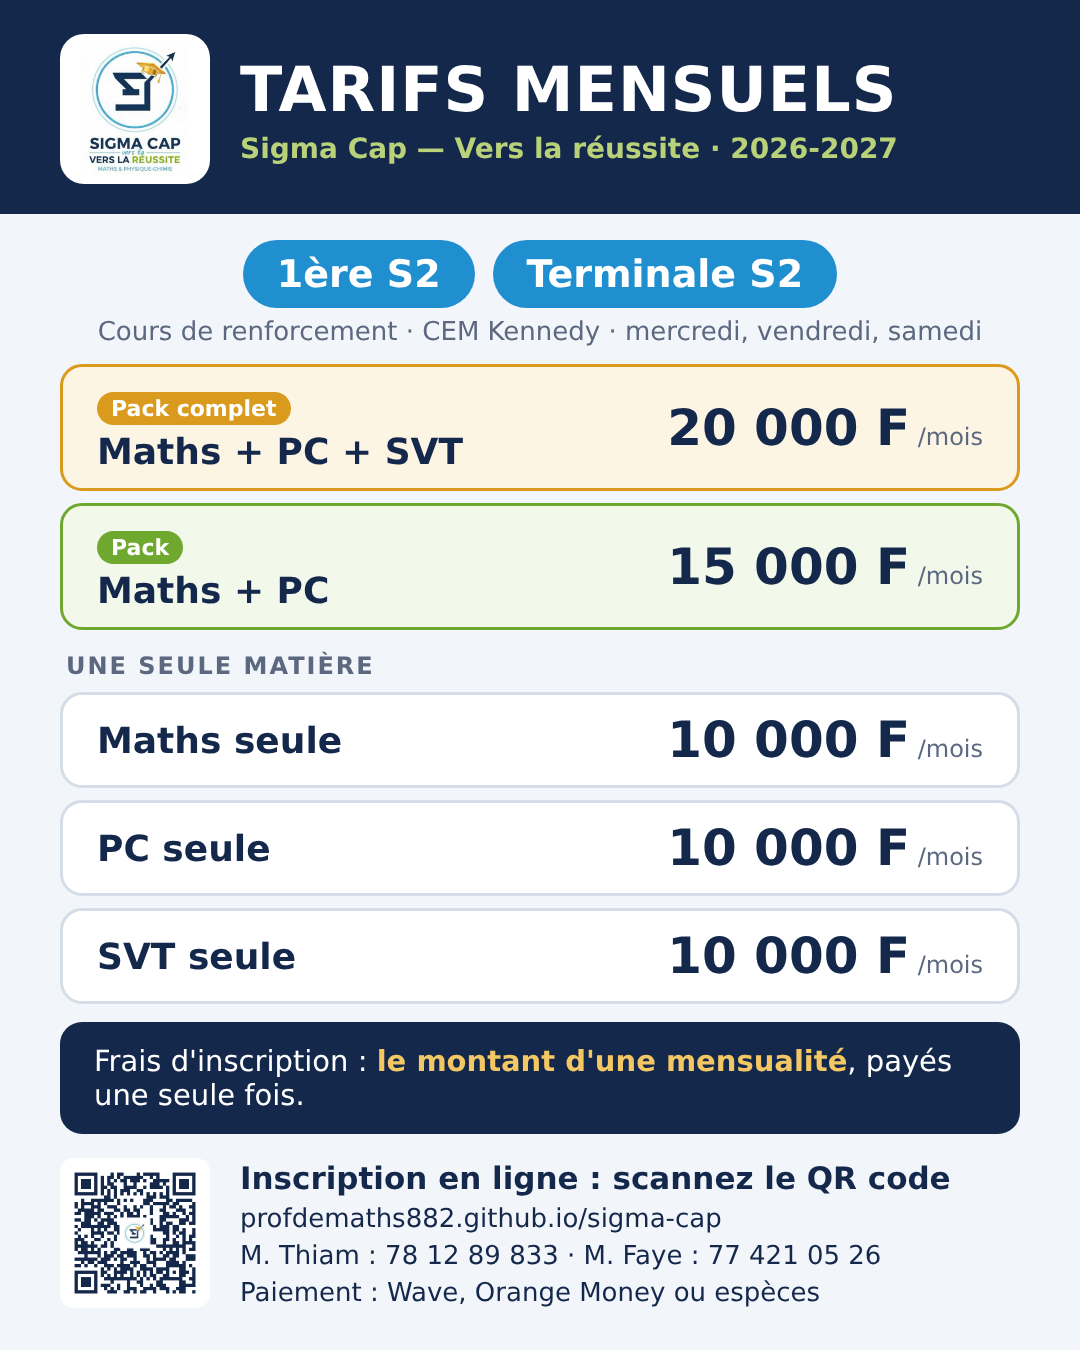
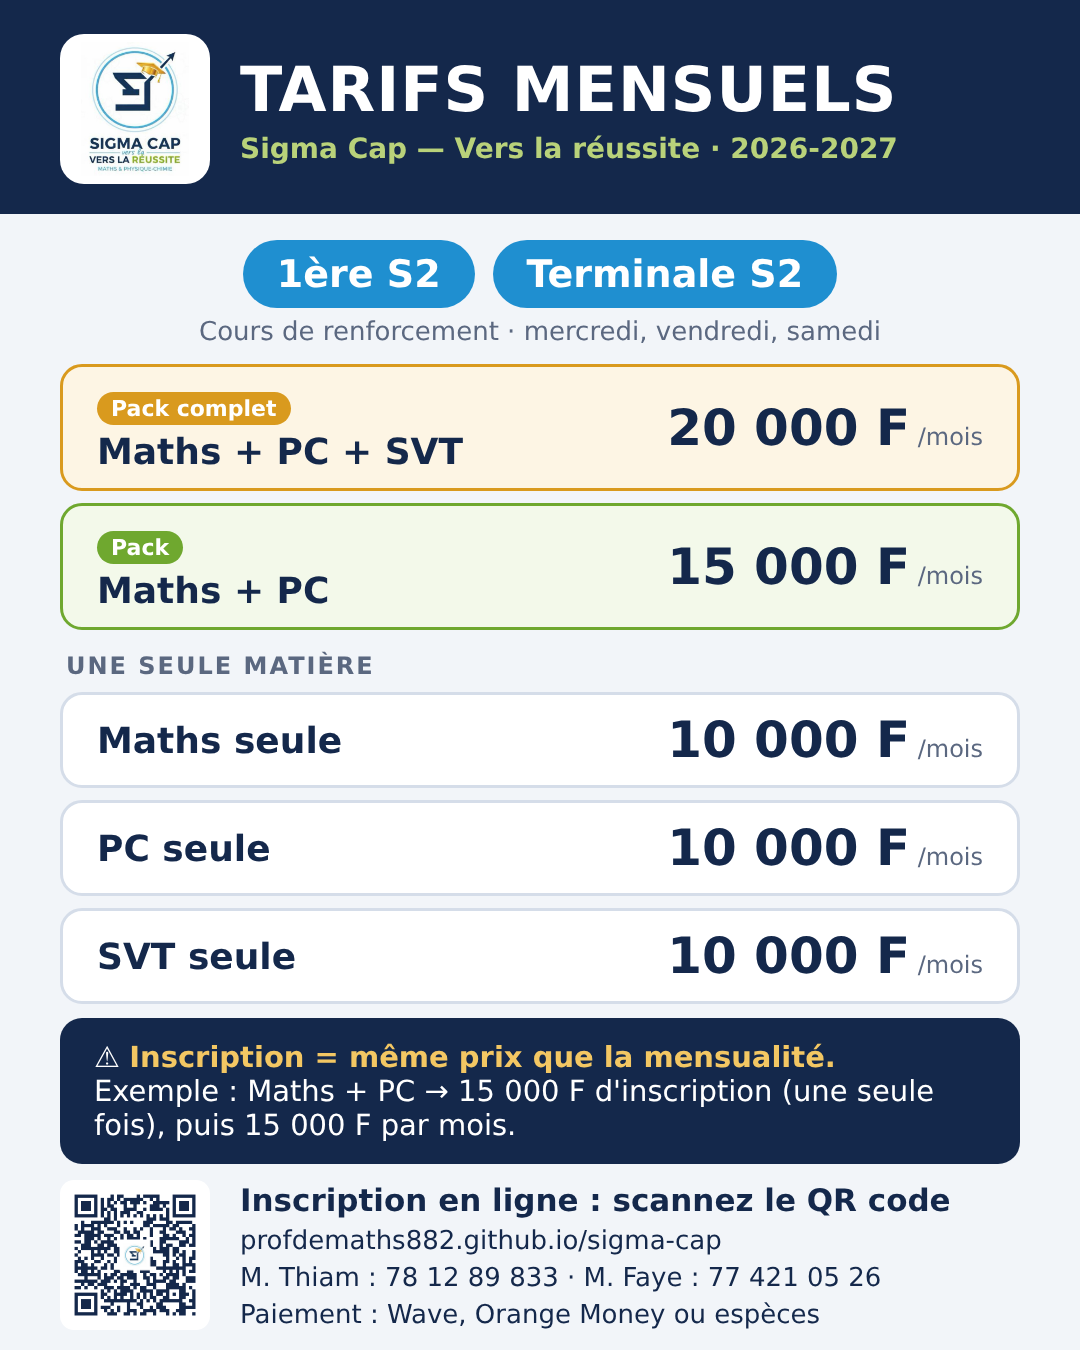
Tarifs : « inscription = même prix que la mensualité » bien visible ; flyer sans le lieu
Claude-Session: https://claude.ai/code/session_011QCenhXJgct1NLWhwAbZL6

diff --git a/app.js b/app.js
@@ -555,7 +555,7 @@
         cards.push(`<div class="price best"><span class="pill ${m} tag">Pack + ${m}</span><h3>${names(pk.concat([m]))}</h3><div class="amt">${fcfa(tot)}<small>CFA / mois</small></div><p class="small muted" style="margin:6px 0 0">${m} en plus du pack : + ${fcfa(tot - t.pack.prix)} seulement.</p></div>`); });
     }
     MATIERES.filter(m => t.seules[m] != null).forEach(m => cards.push(`<div class="price"><span class="pill ${m} tag">${m}</span><h3>${MAT_LABEL[m]} seule</h3><div class="amt">${fcfa(t.seules[m])}<small>CFA / mois</small></div></div>`));
-    return cards.join('') + `<p class="small muted price-note">Frais d'inscription : le montant d'une mensualité, payés une seule fois à l'inscription.${['1ère S2', 'Terminale S2'].includes(classe) ? ' <a href="img/flyer/tarifs-1ereS2-TS2.png" download="Sigma-Cap-Tarifs-1ereS2-TerminaleS2.png">Télécharger le flyer des tarifs</a>' : ''}</p>`;
+    return cards.join('') + `<p class="price-note"><b>⚠ Inscription = même prix que la mensualité</b> (payée une seule fois). Exemple : ${t.pack ? esc(t.pack.matieres.join(' + ')) + ' → ' + fcfa(t.pack.prix) + ' d\'inscription, puis ' + fcfa(t.pack.prix) + ' par mois' : 'une matière → même montant à l\'inscription puis chaque mois'}.${['1ère S2', 'Terminale S2'].includes(classe) ? ' <a href="img/flyer/tarifs-1ereS2-TS2.png" download="Sigma-Cap-Tarifs-1ereS2-TerminaleS2.png">Télécharger le flyer des tarifs</a>' : ''}</p>`;
   }
 
   function weekHTML(sessions, editable, highlight) {

diff --git a/index.html b/index.html
@@ -14,16 +14,16 @@
 <link rel="preconnect" href="https://fonts.googleapis.com">
 <link rel="preconnect" href="https://fonts.gstatic.com" crossorigin>
 <link rel="stylesheet" href="https://fonts.googleapis.com/css2?family=Archivo:wght@600;800;900&family=Figtree:wght@400;500;600;700&display=swap">
-<link rel="stylesheet" href="styles.css?v=202611021743">
+<link rel="stylesheet" href="styles.css?v=202611021752">
 </head>
 <body>
 <div id="app"></div>
 <div id="modal-root"></div>
 <div id="toast" role="status" aria-live="polite" hidden></div>
-<script src="config.js?v=202611021743"></script>
-<script src="data.js?v=202611021743"></script>
-<script src="core.js?v=202611021743"></script>
-<script src="learn.js?v=202611021743"></script>
-<script src="app.js?v=202611021743"></script>
+<script src="config.js?v=202611021752"></script>
+<script src="data.js?v=202611021752"></script>
+<script src="core.js?v=202611021752"></script>
+<script src="learn.js?v=202611021752"></script>
+<script src="app.js?v=202611021752"></script>
 </body>
 </html>

diff --git a/sw.js b/sw.js
@@ -1,5 +1,5 @@
 // Sigma Cap — fonctionne hors connexion pour la page (les données restent en ligne)
-const V = 'sigma-cap-v202611021743';
+const V = 'sigma-cap-v202611021752';
 const FILES = ['./', 'index.html', 'styles.css', 'app.js', 'core.js', 'learn.js', 'data.js', 'config.js', 'manifest.webmanifest',
   'img/logo-full.jpg', 'img/mark.png', 'img/thiam.jpg', 'img/faye.jpg', 'img/sene.jpg', 'img/thiam-p.jpg', 'img/faye-p.jpg', 'img/sene-p.jpg', 'img/profdemaths.jpg', 'img/icon-192.png', 'img/icon-512.png', 'img/qrcode.png'];
 self.addEventListener('install', e => { e.waitUntil(caches.open(V).then(c => c.addAll(FILES)).then(() => self.skipWaiting())); });

diff --git a/styles.css b/styles.css
@@ -525,4 +525,4 @@ h4.grp { margin: 14px 0 8px; display: flex; gap: 8px; align-items: center; }
 .lr-sym { display: flex; flex-wrap: wrap; gap: 4px; }
 .lr-sym .btn { min-width: 34px; padding: 4px 8px; }
 .lr-txt { width: 100%; box-sizing: border-box; font: 1rem/1.5 var(--body); padding: 10px; border-radius: 8px; border: 1px solid var(--line); background: var(--surface); color: var(--fg); resize: vertical; }
-.price-note { grid-column: 1 / -1; margin: 0; }
+.price-note { grid-column: 1 / -1; margin: 0; padding: 12px 16px; border-radius: 12px; background: var(--warn-bg); color: var(--fg); }
